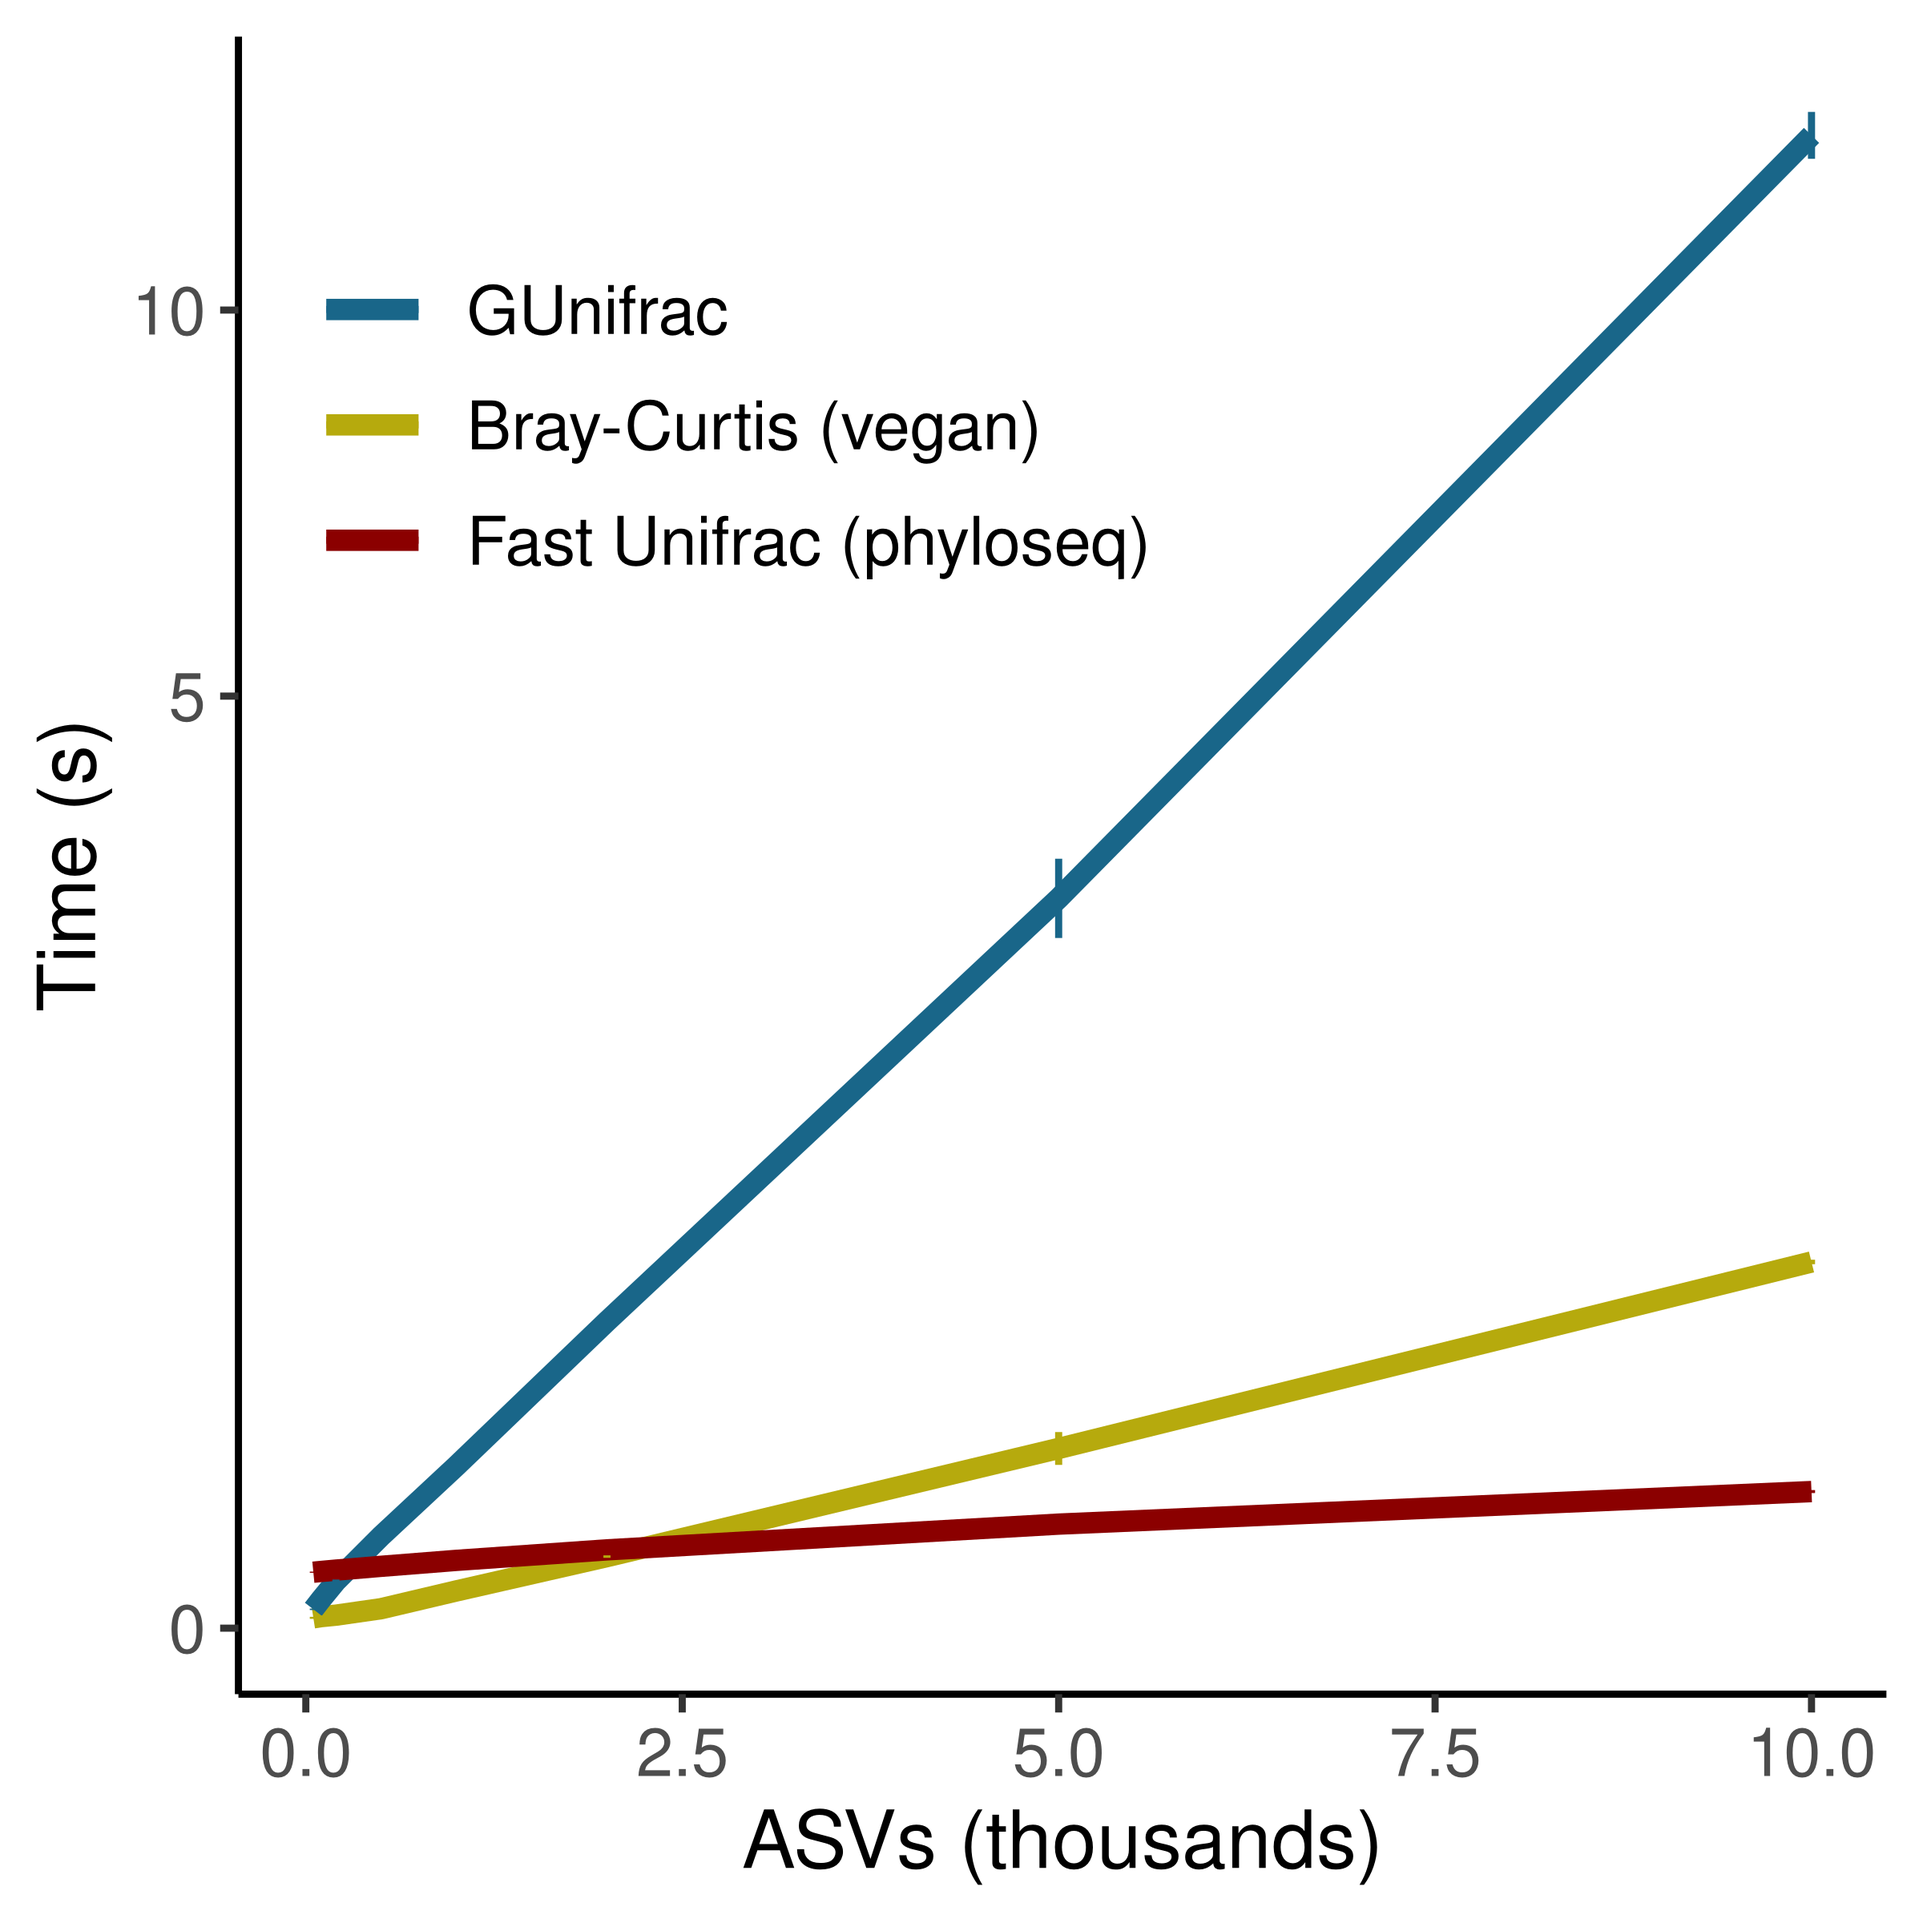
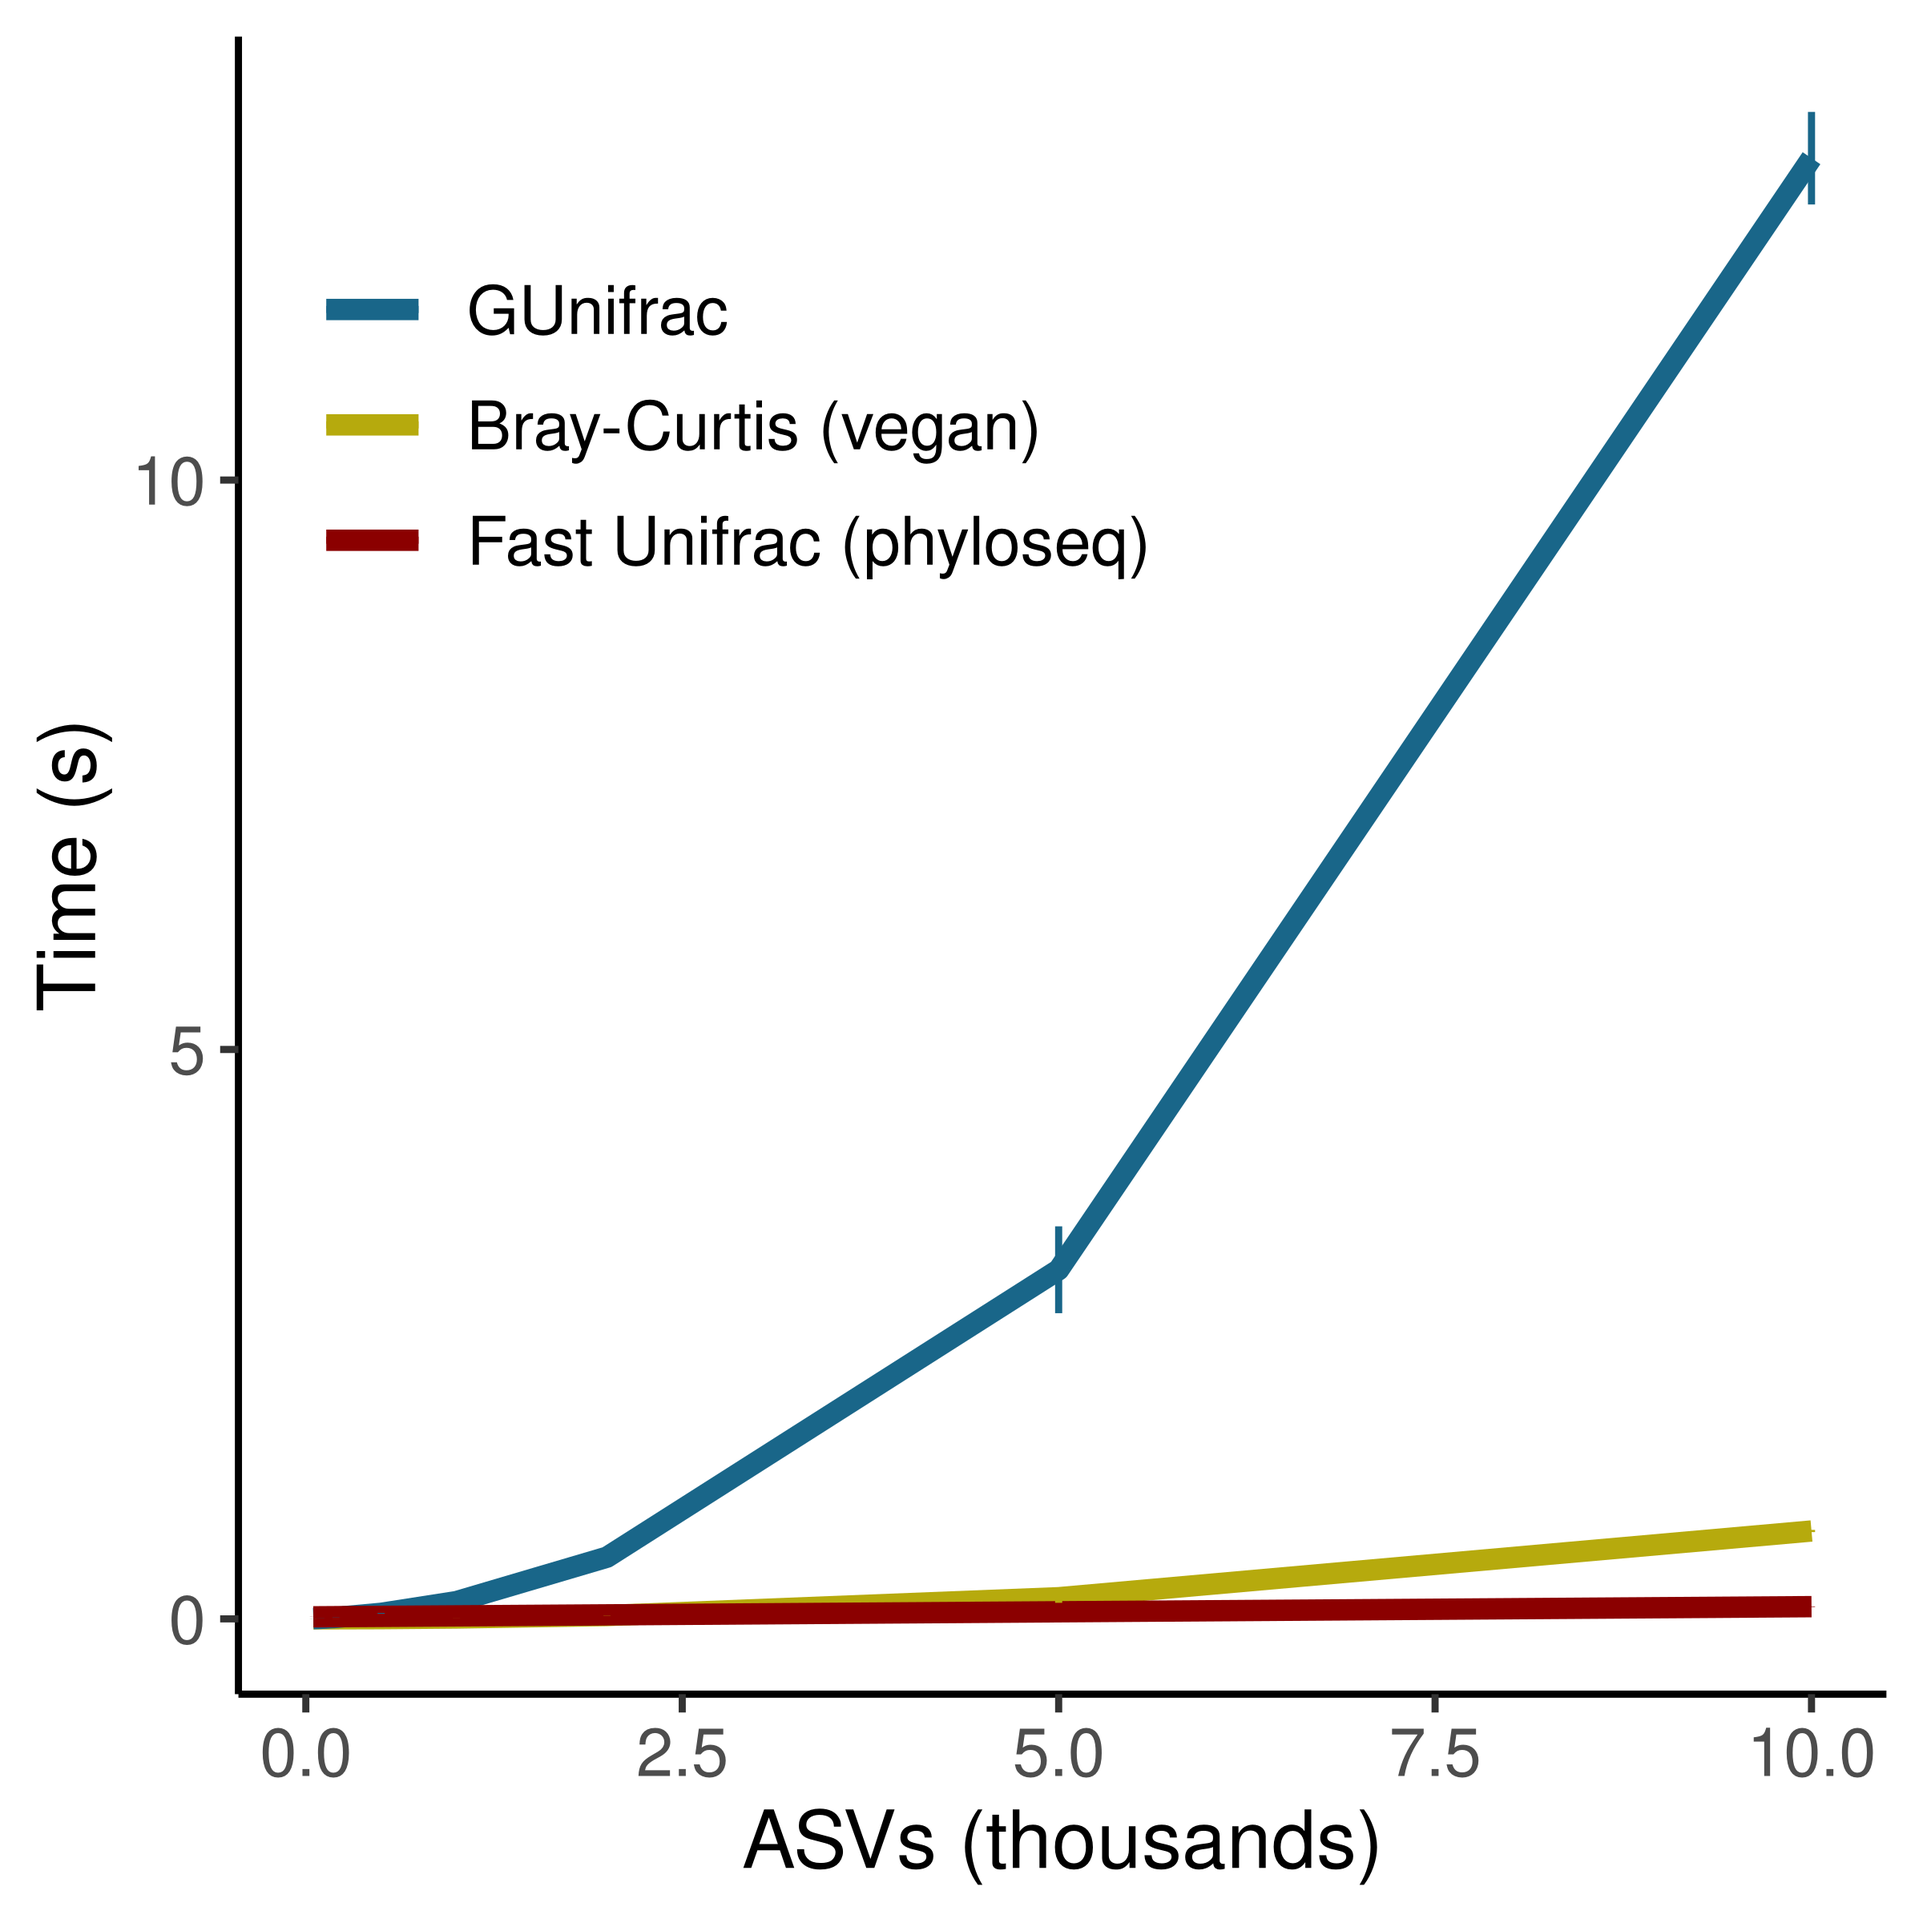
sqrt axis is confusing

diff --git a/zhang_reanalysis/03_Zhang_BetaDiversity.html b/zhang_reanalysis/03_Zhang_BetaDiversity.html
@@ -724,15 +724,14 @@ F-statistic: 9.004e+04 on 2 and 397 DF,  p-value: &lt; 2.2e-16</code></pre>
 <span id="cb35-6"><a href="#cb35-6" aria-hidden="true" tabindex="-1"></a>               <span class="at">fun.min =</span> \(x)<span class="fu">median</span>(x)<span class="sc">-</span><span class="fu">sd</span>(x),</span>
 <span id="cb35-7"><a href="#cb35-7" aria-hidden="true" tabindex="-1"></a>               <span class="at">fun.max =</span> \(x)<span class="fu">median</span>(x)<span class="sc">+</span><span class="fu">sd</span>(x),</span>
 <span id="cb35-8"><a href="#cb35-8" aria-hidden="true" tabindex="-1"></a>               <span class="at">width =</span> <span class="dv">0</span>) <span class="sc">+</span>  </span>
-<span id="cb35-9"><a href="#cb35-9" aria-hidden="true" tabindex="-1"></a>  <span class="fu">scale_y_sqrt</span>() <span class="sc">+</span> </span>
-<span id="cb35-10"><a href="#cb35-10" aria-hidden="true" tabindex="-1"></a>  <span class="fu">scale_color_manual</span>(<span class="at">values =</span> <span class="fu">c</span>(<span class="st">"#196689"</span>, <span class="st">"#B6AA0D"</span>, <span class="st">"darkred"</span>),</span>
-<span id="cb35-11"><a href="#cb35-11" aria-hidden="true" tabindex="-1"></a>                     <span class="at">breaks =</span> <span class="fu">c</span>(<span class="st">"Gunifrac"</span>, <span class="st">"Bray"</span>, <span class="st">"Phylo.Wunifrac"</span>),</span>
-<span id="cb35-12"><a href="#cb35-12" aria-hidden="true" tabindex="-1"></a>                     <span class="at">labels =</span> <span class="fu">c</span>( <span class="st">"GUnifrac"</span>, <span class="st">"Bray-Curtis (vegan)"</span>,<span class="st">"Fast Unifrac (phyloseq)"</span>)) <span class="sc">+</span> </span>
-<span id="cb35-13"><a href="#cb35-13" aria-hidden="true" tabindex="-1"></a>  <span class="fu">labs</span>(<span class="at">y =</span> <span class="st">"Time (s)"</span>, <span class="at">x =</span> <span class="st">"ASVs (thousands)"</span>, <span class="at">color =</span> <span class="st">""</span>) <span class="sc">+</span></span>
-<span id="cb35-14"><a href="#cb35-14" aria-hidden="true" tabindex="-1"></a>  <span class="fu">theme</span>(<span class="at">legend.box.background =</span> <span class="fu">element_rect</span>(<span class="at">fill =</span> <span class="cn">NA</span>,</span>
-<span id="cb35-15"><a href="#cb35-15" aria-hidden="true" tabindex="-1"></a>                                             <span class="at">color =</span> <span class="cn">NA</span>),</span>
-<span id="cb35-16"><a href="#cb35-16" aria-hidden="true" tabindex="-1"></a>        <span class="at">legend.position =</span> <span class="st">"inside"</span>,</span>
-<span id="cb35-17"><a href="#cb35-17" aria-hidden="true" tabindex="-1"></a>        <span class="at">legend.position.inside =</span> <span class="fu">c</span>(<span class="fl">0.3</span>, <span class="fl">0.8</span>))</span></code><button title="Copy to Clipboard" class="code-copy-button"><i class="bi"></i></button></pre></div>
+<span id="cb35-9"><a href="#cb35-9" aria-hidden="true" tabindex="-1"></a>  <span class="fu">scale_color_manual</span>(<span class="at">values =</span> <span class="fu">c</span>(<span class="st">"#196689"</span>, <span class="st">"#B6AA0D"</span>, <span class="st">"darkred"</span>),</span>
+<span id="cb35-10"><a href="#cb35-10" aria-hidden="true" tabindex="-1"></a>                     <span class="at">breaks =</span> <span class="fu">c</span>(<span class="st">"Gunifrac"</span>, <span class="st">"Bray"</span>, <span class="st">"Phylo.Wunifrac"</span>),</span>
+<span id="cb35-11"><a href="#cb35-11" aria-hidden="true" tabindex="-1"></a>                     <span class="at">labels =</span> <span class="fu">c</span>( <span class="st">"GUnifrac"</span>, <span class="st">"Bray-Curtis (vegan)"</span>,<span class="st">"Fast Unifrac (phyloseq)"</span>)) <span class="sc">+</span> </span>
+<span id="cb35-12"><a href="#cb35-12" aria-hidden="true" tabindex="-1"></a>  <span class="fu">labs</span>(<span class="at">y =</span> <span class="st">"Time (s)"</span>, <span class="at">x =</span> <span class="st">"ASVs (thousands)"</span>, <span class="at">color =</span> <span class="st">""</span>) <span class="sc">+</span></span>
+<span id="cb35-13"><a href="#cb35-13" aria-hidden="true" tabindex="-1"></a>  <span class="fu">theme</span>(<span class="at">legend.box.background =</span> <span class="fu">element_rect</span>(<span class="at">fill =</span> <span class="cn">NA</span>,</span>
+<span id="cb35-14"><a href="#cb35-14" aria-hidden="true" tabindex="-1"></a>                                             <span class="at">color =</span> <span class="cn">NA</span>),</span>
+<span id="cb35-15"><a href="#cb35-15" aria-hidden="true" tabindex="-1"></a>        <span class="at">legend.position =</span> <span class="st">"inside"</span>,</span>
+<span id="cb35-16"><a href="#cb35-16" aria-hidden="true" tabindex="-1"></a>        <span class="at">legend.position.inside =</span> <span class="fu">c</span>(<span class="fl">0.3</span>, <span class="fl">0.8</span>))</span></code><button title="Copy to Clipboard" class="code-copy-button"><i class="bi"></i></button></pre></div>
 <div class="cell-output-display">
 <p><img src="03_Zhang_BetaDiversity_files/figure-html/compare-methods-1.png" class="img-fluid" width="1200"></p>
 </div>
